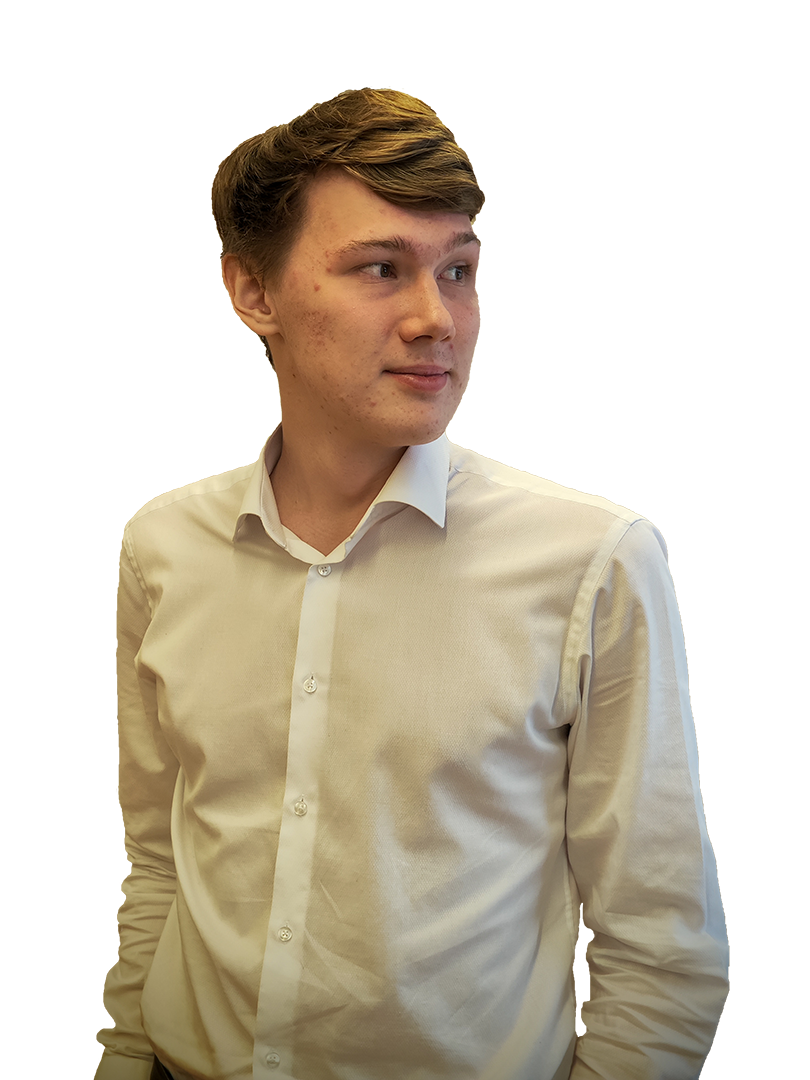
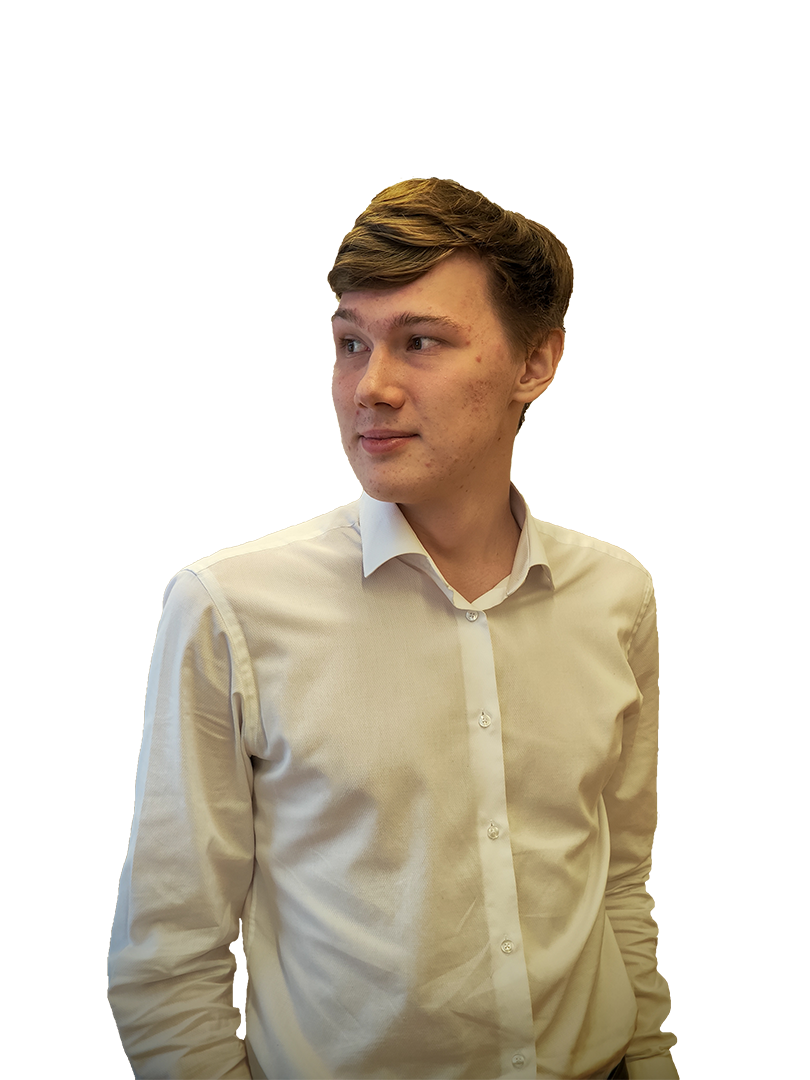
аа

diff --git a/dist/index.html b/dist/index.html
@@ -1,1 +1,146 @@
-<!DOCTYPE html><html lang=ru data-bs-theme=dark><head><meta charset=UTF-8><meta http-equiv=X-UA-Compatible content="IE=edge"><title>Portfolio</title><script defer=defer src=main.5e54792342d2b28afcd0.bundle.js></script><script defer=defer src=vendor.bf51432881bab9971f05.bundle.js></script><link href=vendor.f3c888c6f17d62f131b8.css rel=stylesheet></head><body class=""><header><nav class="navbar navbar-expand-lg bg-body-tertiary"><div class=container-fluid><a class=navbar-brand href=#>Navbar</a> <button class=navbar-toggler type=button data-bs-toggle=collapse data-bs-target=#navbarNavAltMarkup aria-controls=navbarNavAltMarkup aria-expanded=false aria-label="Toggle navigation"><span class=navbar-toggler-icon></span></button><div class="collapse navbar-collapse" id=navbarNavAltMarkup><div class="navbar-nav me-auto"><a class=nav-link aria-current=page href=#><span class=menu-bt>Home</span> </a><a class=nav-link href=#><span class=menu-bt>About me</span> </a><a class=nav-link href=#><span class=menu-bt>Portfolio</span> </a><a class=nav-link href=#><span class=menu-bt>Contact</span> </a><a href=# class="nav-link theme-button"><span class=menu-bt id=btnSwitch>Switch to Light Theme</span></a></div></div></div></nav></header><main><section><div class="container d-flex justify-content-between"><div class=align-item-center><h1>Я Сысолетин Александр</h1><p>web-designer</p><p>web-developer</p></div><img src=35b08dc6f8176e383f6d.png alt=""></div></section><section><div class=container><h1>About me</h1><div class="d-flex justify-content-between"><p>/*Content*/ /*разрабатываю и переделываю сайты, вестаю сайты с матеков, использую в работе различные плагины и библиотеки (jQuery, Bootstrap, webpack, Sass, gFonts, fontawesome и тд)*/</p><img src=# alt=""></div></div></section><section><div class=container><h1 class="m-5 text-center">Portfolio</h1><div class=""><div class="d-flex flex-wrap gap-3 justify-content-center"><div class=portfolio-items><a class="" href=https://p0m1dOr.github.io/Phototime><img class=scaling src=821287cec87b5e4ce74f.png alt=""></a></div><div class=portfolio-items><a class="" href=https://p0m1dor.github.io/zaverstayu/ ><img class=scaling src=e4115ee43b251eb53b94.png alt=""></a></div><div class=portfolio-items><a class="" href=https://p0m1dOr.github.io/Tajem><img class=scaling src=f7cb087e4ffaaae2178b.png alt=""></a></div><div class=portfolio-items><a class="" href=https://p0m1dOr.github.io/ActiveBox><img class=scaling src=5e95600352833d30dbb5.png alt=""></a></div></div></div></div></section><section class=bg-bs-dark><div class=container><h1 class="fs-2 text-center p-5">Contacts</h1><ul class="d-flex justify-content-center list-unstyled m-0 p-5"><li class="m-3 mb-0 mt-0"><a class="d-block border border-white border-1 contact-items rounded-circle position-relative content-image-1" href=#><svg xmlns=http://www.w3.org/2000/svg xmlns:xlink=http://www.w3.org/1999/xlink viewBox=0,0,256,256 width=35px height=35px fill-rule=nonzero class="contact-img position-absolute"><g transform=""><g class=social-images fill=#ffffff fill-rule=nonzero stroke=none stroke-width=1 stroke-linecap=butt stroke-linejoin=miter stroke-miterlimit=10 stroke-dasharray="" stroke-dashoffset=0 font-family=none font-weight=none font-size=none text-anchor=none style=mix-blend-mode:normal><g transform=scale(10.66667,10.66667)><path d="M20.30273,2.98438c-0.28897,0.01257 -0.55415,0.09568 -0.78711,0.1875c-0.21522,0.08476 -0.98809,0.4096 -2.21875,0.92578c-1.23066,0.51618 -2.8614,1.20058 -4.59961,1.93164c-3.47642,1.46212 -7.38303,3.10683 -9.38477,3.94922c-0.06874,0.02864 -0.34791,0.11411 -0.65625,0.34961c-0.30905,0.23605 -0.65234,0.74834 -0.65234,1.30859c0,0.45195 0.22561,0.91225 0.49805,1.17578c0.27243,0.26353 0.54854,0.38674 0.7793,0.47852v-0.00195c0.78003,0.31076 3.10944,1.24288 3.66406,1.46484c0.19673,0.58953 1.04128,3.11337 1.24219,3.74805h-0.00195c0.14201,0.44921 0.28043,0.74196 0.47266,0.98633c0.09611,0.12218 0.21084,0.2329 0.35156,0.32031c0.05399,0.03354 0.11378,0.05955 0.17383,0.08398c0.00837,0.00355 0.01699,0.00443 0.02539,0.00781l-0.02344,-0.00586c0.01741,0.007 0.03304,0.01733 0.05078,0.02344c0.02891,0.00996 0.04896,0.00963 0.08789,0.01758c0.137,0.04215 0.27376,0.07031 0.40039,0.07031c0.54361,0 0.87695,-0.29492 0.87695,-0.29492l0.02149,-0.01563l2.34766,-1.98633l2.875,2.66016c0.05251,0.07415 0.4639,0.63086 1.41602,0.63086c0.56813,0 1.01731,-0.28121 1.30469,-0.57617c0.28738,-0.29496 0.4664,-0.59677 0.54688,-1.00586l0.00195,-0.00195c0.06418,-0.33018 2.81641,-14.15039 2.81641,-14.15039l-0.00586,0.02344c0.08566,-0.38235 0.11095,-0.7521 0.00977,-1.12891c-0.10119,-0.37681 -0.37428,-0.74453 -0.70312,-0.9375c-0.32885,-0.19297 -0.64072,-0.25085 -0.92969,-0.23828zM19.9082,5.17383c-0.10876,0.54603 -2.57419,12.93205 -2.72656,13.70898l-4.15234,-3.8418l-2.80664,2.37305l0.77734,-3.03906c0,0 5.36255,-5.42814 5.68555,-5.74414c0.26,-0.253 0.31445,-0.34169 0.31445,-0.42969c0,-0.117 -0.06022,-0.20117 -0.19922,-0.20117c-0.125,0 -0.29477,0.11978 -0.38477,0.17578c-1.14365,0.713 -6.01473,3.4889 -8.41016,4.85156c-0.14416,-0.0578 -2.30846,-0.92689 -3.47461,-1.39258c2.07426,-0.873 5.62991,-2.36896 8.94141,-3.76172c1.73791,-0.73094 3.36817,-1.41595 4.59766,-1.93164c1.03785,-0.43531 1.57923,-0.6607 1.83789,-0.76758zM17.15234,19.02539h0.00195c-0.00005,0.00023 -0.00185,0.00556 -0.00195,0.00586c0.00127,-0.00646 -0.00095,-0.0008 0,-0.00586z"></path></g></g></g></svg></a></li><li class="m-2 mb-0 mt-0"><a class="d-block border border-white border-1 contact-items rounded-circle position-relative content-image-2" href=#><svg xmlns=http://www.w3.org/2000/svg xmlns:xlink=http://www.w3.org/1999/xlink viewBox=0,0,256,256 width=35px height=35px fill-rule=nonzero class="contact-img position-absolute"><g fill=#ffffff class=social-images fill-rule=nonzero stroke=none stroke-width=1 stroke-linecap=butt stroke-linejoin=miter stroke-miterlimit=10 stroke-dasharray="" stroke-dashoffset=0 font-family=none font-weight=none font-size=none text-anchor=none style=mix-blend-mode:normal><g transform=scale(5.33333,5.33333)><path d="M5.43555,10.95703c-2.24145,0 -3.94823,2.20405 -3.33008,4.37109c1.60947,5.64875 3.99535,11.18019 7.55664,15.5293c3.56129,4.3491 8.37781,7.50153 14.53711,8.12695c2.05018,0.20802 3.81836,-1.46324 3.81836,-3.49023v-4.04687c0,-0.25252 0.17246,-0.43196 0.36914,-0.4375c0.03642,-0.00087 0.06553,-0.00195 0.08398,-0.00195c0.70734,0 2.1608,0.88617 3.4375,2.26367c1.2767,1.3775 2.4059,3.08279 2.94922,4.02734v0.00195c0.61476,1.06689 1.76026,1.71094 2.97852,1.71094h4.87305c2.42697,0.0018 4.05099,-2.7398 2.86328,-4.86328c-1.86474,-3.33527 -5.58491,-6.63403 -7.44531,-8.2793c3.40858,-3.74313 5.66851,-7.82237 6.66992,-10.52734c0.75572,-2.04371 -0.8025,-4.34375 -3,-4.34375h-3.47852c-1.51206,0 -2.92183,0.73674 -3.49805,1.91601c-2.70723,5.54763 -5.12035,7.58519 -6.82031,9.05274v-7.52734c0,-1.87793 -1.55821,-3.42618 -3.42969,-3.42969l-6.0918,-0.00977c-1.93989,-0.0024 -3.14276,2.39349 -1.98047,3.94727l1.17578,1.57422l0.00195,0.00391c0.20152,0.26649 0.30859,0.58581 0.30859,0.91406v0.00195l0.02344,6.27734c-2.42295,-2.55532 -5.05531,-7.96819 -5.84961,-10.38281v-0.00195c-0.46389,-1.41049 -1.79845,-2.36286 -3.27148,-2.36719h-0.00195l-3.44727,-0.00977zM5.43555,13.95703l3.44336,0.00977c0.21165,0.0005 0.36731,0.11471 0.42969,0.30469c0.98629,2.99924 3.57766,8.71377 6.86328,11.91406c0.85321,0.83123 2.10548,0.99973 3.07617,0.60547c0.97069,-0.39426 1.76172,-1.41601 1.76172,-2.61523v-0.00195l-0.02539,-6.73437c0,-0.98078 -0.32107,-1.93461 -0.91016,-2.7168l-0.00195,-0.00391l-0.53711,-0.7168l5.0293,0.00781c0.26257,0.00051 0.43555,0.17161 0.43555,0.42969v7.60352c0,2.43475 3.06637,3.83367 4.91016,2.24219h0.00195c1.69007,-1.45988 4.68076,-4.06542 7.60352,-10.05469c0.06778,-0.13872 0.0088,-0.23242 0.80273,-0.23242h3.47852c0.2025,0 0.26183,0.09645 0.18555,0.30273c-0.85083,2.29824 -3.0216,6.30604 -6.24023,9.77344c-0.99206,1.06888 -0.95164,2.83494 0.16992,3.82813c1.75814,1.55509 5.59531,5.1232 7.04102,7.70898c0.13229,0.23651 0.03284,0.40059 -0.24219,0.40039h-4.875c-0.16775,0 -0.30566,-0.08187 -0.37891,-0.20898c-0.64968,-1.12945 -1.84111,-2.94482 -3.34766,-4.57031c-1.50655,-1.6255 -3.30001,-3.22461 -5.63867,-3.22461c-0.06626,0 -0.12052,0.00089 -0.16211,0.00195h-0.00391h-0.00195c-1.86132,0.05246 -3.28516,1.63202 -3.28516,3.4375v4.04688c0,0.311 -0.23981,0.53384 -0.51562,0.50586c-5.3237,-0.54058 -9.33632,-3.15557 -12.51953,-7.04297c-3.18321,-3.8874 -5.45666,-9.06192 -6.99219,-14.45117c-0.08585,-0.30096 0.09876,-0.54883 0.44531,-0.54883z"></path></g></g></svg></a></li><li class="m-2 mb-0 mt-0"><a class="d-block border border-white border-1 contact-items rounded-circle position-relative content-image-3" href=#><svg xmlns=http://www.w3.org/2000/svg xmlns:xlink=http://www.w3.org/1999/xlink viewBox=0,0,256,256 width=35px height=35px fill-rule=nonzero class="contact-img position-absolute"><g class=social-images fill=#ffffff fill-rule=nonzero stroke=none stroke-width=1 stroke-linecap=butt stroke-linejoin=miter stroke-miterlimit=10 stroke-dasharray="" stroke-dashoffset=0 font-family=none font-weight=none font-size=none text-anchor=none style=mix-blend-mode:normal><g transform=scale(10.66667,10.66667)><path d="M19.952,5.672c-1.904,-1.531 -4.916,-1.79 -5.044,-1.801c-0.201,-0.017 -0.392,0.097 -0.474,0.281c-0.006,0.012 -0.072,0.163 -0.145,0.398c1.259,0.212 2.806,0.64 4.206,1.509c0.224,0.139 0.293,0.434 0.154,0.659c-0.09,0.146 -0.247,0.226 -0.407,0.226c-0.086,0 -0.173,-0.023 -0.252,-0.072c-2.406,-1.492 -5.412,-1.567 -5.99,-1.567c-0.578,0 -3.585,0.075 -5.989,1.567c-0.225,0.14 -0.519,0.07 -0.659,-0.154c-0.14,-0.225 -0.07,-0.519 0.154,-0.659c1.4,-0.868 2.946,-1.297 4.206,-1.509c-0.074,-0.236 -0.14,-0.386 -0.145,-0.398c-0.083,-0.184 -0.273,-0.3 -0.475,-0.28c-0.127,0.01 -3.139,0.269 -5.069,1.822c-1.008,0.931 -3.023,6.379 -3.023,11.089c0,0.083 0.022,0.165 0.063,0.237c1.391,2.443 5.185,3.083 6.05,3.111c0.005,0 0.01,0 0.015,0c0.153,0 0.297,-0.073 0.387,-0.197l0.875,-1.202c-2.359,-0.61 -3.564,-1.645 -3.634,-1.706c-0.198,-0.175 -0.217,-0.477 -0.042,-0.675c0.175,-0.198 0.476,-0.217 0.674,-0.043c0.029,0.026 2.248,1.909 6.612,1.909c4.372,0 6.591,-1.891 6.613,-1.91c0.198,-0.172 0.5,-0.154 0.674,0.045c0.174,0.198 0.155,0.499 -0.042,0.673c-0.07,0.062 -1.275,1.096 -3.634,1.706l0.875,1.202c0.09,0.124 0.234,0.197 0.387,0.197c0.005,0 0.01,0 0.015,0c0.865,-0.027 4.659,-0.667 6.05,-3.111c0.04,-0.072 0.062,-0.153 0.062,-0.236c0,-4.71 -2.015,-10.158 -3.048,-11.111zM8.891,14.87c-0.924,0 -1.674,-0.857 -1.674,-1.913c0,-1.056 0.749,-1.913 1.674,-1.913c0.925,0 1.674,0.857 1.674,1.913c0,1.056 -0.749,1.913 -1.674,1.913zM15.109,14.87c-0.924,0 -1.674,-0.857 -1.674,-1.913c0,-1.056 0.749,-1.913 1.674,-1.913c0.924,0 1.674,0.857 1.674,1.913c0,1.056 -0.75,1.913 -1.674,1.913z"></path></g></g></svg></a></li><li class="m-2 mb-0 mt-0"><a class="d-block border border-white border-1 contact-items rounded-circle position-relative content-image-4" href=#><svg xmlns=http://www.w3.org/2000/svg xmlns:xlink=http://www.w3.org/1999/xlink viewBox=0,0,256,256 width=35px height=35px fill-rule=nonzero class="contact-img position-absolute"><g class=social-images fill=#ffffff fill-rule=nonzero stroke=none stroke-width=1 stroke-linecap=butt stroke-linejoin=miter stroke-miterlimit=10 stroke-dasharray="" stroke-dashoffset=0 font-family=none font-weight=none font-size=none text-anchor=none style=mix-blend-mode:normal><g transform=scale(10.66667,10.66667)><path d="M12,2c-5.52344,0 -10,4.47656 -10,10c0,5.52344 4.47656,10 10,10c5.52344,0 10,-4.47656 10,-10c0,-5.52344 -4.47656,-10 -10,-10zM12,4c4.41016,0 8,3.58984 8,8c0,0.46875 -0.04687,0.92969 -0.125,1.375c-0.24609,-0.05469 -0.60937,-0.12109 -1.03125,-0.125c-0.3125,-0.00391 -0.70312,0.04688 -1.03125,0.09375c0.11328,-0.34766 0.1875,-0.73047 0.1875,-1.125c0,-0.96094 -0.46875,-1.85547 -1.21875,-2.59375c0.20703,-0.76953 0.41016,-2.08984 -0.125,-2.625c-1.58203,0 -2.45703,1.12891 -2.5,1.1875c-0.48828,-0.11719 -0.99219,-0.1875 -1.53125,-0.1875c-0.69141,0 -1.35156,0.125 -1.96875,0.3125l0.1875,-0.15625c0,0 -0.87891,-1.21875 -2.5,-1.21875c-0.56641,0.57031 -0.30859,2.01563 -0.09375,2.75c-0.76562,0.73047 -1.25,1.59375 -1.25,2.53125c0,0.32813 0.07813,0.64063 0.15625,0.9375c-0.27734,-0.03125 -1.27734,-0.125 -1.6875,-0.125c-0.36328,0 -0.92578,0.08594 -1.375,0.1875c-0.0625,-0.39844 -0.09375,-0.80469 -0.09375,-1.21875c0,-4.41016 3.58984,-8 8,-8zM5.46875,13.28125c0.39453,0 1.59375,0.14063 1.75,0.15625c0.01953,0.05469 0.03906,0.10547 0.0625,0.15625c-0.42969,-0.03906 -1.26172,-0.09766 -1.8125,-0.03125c-0.36719,0.04297 -0.83594,0.17578 -1.25,0.28125c-0.03125,-0.125 -0.07031,-0.24609 -0.09375,-0.375c0.4375,-0.09375 1.01172,-0.1875 1.34375,-0.1875zM18.84375,13.5c0.39844,0.00391 0.76172,0.07031 1,0.125c-0.01172,0.06641 -0.04687,0.12109 -0.0625,0.1875c-0.25391,-0.05859 -0.67187,-0.14453 -1.15625,-0.15625c-0.23437,-0.00391 -0.60937,0.00781 -0.9375,0.03125c0.01563,-0.03125 0.01953,-0.0625 0.03125,-0.09375c0.33984,-0.04687 0.77344,-0.09766 1.125,-0.09375zM6.09375,13.78125c0.5625,0.00391 1.08984,0.04297 1.3125,0.0625c0.52344,0.97656 1.58203,1.69922 3.21875,2c-0.40234,0.22266 -0.76172,0.53516 -1.03125,0.90625c-0.23437,0.01953 -0.48047,0.03125 -0.71875,0.03125c-0.69531,0 -1.12891,-0.62109 -1.5,-1.15625c-0.375,-0.53516 -0.83594,-0.59375 -1.09375,-0.625c-0.26172,-0.03125 -0.35156,0.11719 -0.21875,0.21875c0.76172,0.58594 1.03516,1.28125 1.34375,1.90625c0.27734,0.5625 0.85938,0.875 1.5,0.875h0.125c-0.01953,0.10938 -0.03125,0.21094 -0.03125,0.3125v1.09375c-2.30859,-0.93359 -4.06641,-2.90625 -4.71875,-5.34375c0.41016,-0.10156 0.87109,-0.20703 1.21875,-0.25c0.16016,-0.01953 0.36328,-0.03516 0.59375,-0.03125zM18.625,13.90625c0.44922,0.01172 0.84766,0.09766 1.09375,0.15625c-0.55078,2.07031 -1.91016,3.79297 -3.71875,4.84375v-0.59375c0,-0.85156 -0.67187,-1.94531 -1.625,-2.46875c1.58203,-0.28906 2.61328,-0.98047 3.15625,-1.90625c0.37891,-0.02734 0.82422,-0.03906 1.09375,-0.03125zM12.5,18c0.27344,0 0.5,0.22656 0.5,0.5v1.4375c-0.32812,0.04297 -0.66016,0.0625 -1,0.0625v-1.5c0,-0.27344 0.22656,-0.5 0.5,-0.5zM10.5,19c0.27344,0 0.5,0.22656 0.5,0.5v0.4375c-0.33594,-0.04297 -0.67578,-0.10547 -1,-0.1875v-0.25c0,-0.27344 0.22656,-0.5 0.5,-0.5zM14.5,19c0.24219,0 0.45313,0.17578 0.5,0.40625c-0.32422,0.13281 -0.65625,0.25391 -1,0.34375v-0.25c0,-0.27344 0.22656,-0.5 0.5,-0.5z"></path></g></g></svg></a></li></ul></div></section></main><footer class="bg-dark-subtle d-flex justify-content-center"><p class=p-3>Copyright by P0m1dOr</p></footer></body></html>
+<!DOCTYPE html>
+<html lang=ru data-bs-theme=dark>
+
+<head>
+    <meta charset=UTF-8>
+    <meta http-equiv=X-UA-Compatible content="IE=edge">
+    <title>Portfolio</title>
+    <script defer=defer src=main.5e54792342d2b28afcd0.bundle.js></script>
+    <script defer=defer src=vendor.bf51432881bab9971f05.bundle.js></script>
+    <link href=vendor.f3c888c6f17d62f131b8.css rel=stylesheet>
+</head>
+
+<body class="">
+    <header>
+        <nav class="navbar navbar-expand-lg bg-body-tertiary">
+            <div class=container-fluid><a class=navbar-brand href=#>Navbar</a> <button class=navbar-toggler type=button
+                    data-bs-toggle=collapse data-bs-target=#navbarNavAltMarkup aria-controls=navbarNavAltMarkup
+                    aria-expanded=false aria-label="Toggle navigation"><span class=navbar-toggler-icon></span></button>
+                <div class="collapse navbar-collapse" id=navbarNavAltMarkup>
+                    <div class="navbar-nav me-auto"><a class=nav-link aria-current=page href=#><span
+                                class=menu-bt>Home</span> </a><a class=nav-link href=#><span class=menu-bt>About
+                                me</span> </a><a class=nav-link href=#><span class=menu-bt>Portfolio</span> </a><a
+                            class=nav-link href=#><span class=menu-bt>Contact</span> </a><a href=#
+                            class="nav-link theme-button"><span class=menu-bt id=btnSwitch>Switch to Light
+                                Theme</span></a></div>
+                </div>
+            </div>
+        </nav>
+    </header>
+    <main>
+        <section>
+            <div class="container d-flex justify-content-between">
+                <div class=align-item-center>
+                    <h1>Я Сысолетин Александр</h1>
+                    <p>web-designer</p>
+                    <p>web-developer</p>
+                </div><img src=35b08dc6f8176e383f6d.png alt="">
+            </div>
+        </section>
+        <section>
+            <div class=container>
+                <h1>About me</h1>
+                <div class="d-flex justify-content-between">
+                    <p>/*Content*/ /*разрабатываю и переделываю сайты, вестаю сайты с матеков, использую в работе
+                        различные плагины и библиотеки (jQuery, Bootstrap, webpack, Sass, gFonts, fontawesome и тд)*/
+                    </p><img src=# alt="">
+                </div>
+            </div>
+        </section>
+        <section>
+            <div class=container>
+                <h1 class="m-5 text-center">Portfolio</h1>
+                <div class="">
+                    <div class="d-flex flex-wrap gap-3 justify-content-center">
+                        <div class=portfolio-items><a class="" href=https://p0m1dOr.github.io/Phototime><img
+                                    class=scaling src=821287cec87b5e4ce74f.png alt=""></a></div>
+                        <div class=portfolio-items><a class="" href=https://p0m1dor.github.io/zaverstayu/><img
+                                    class=scaling src=e4115ee43b251eb53b94.png alt=""></a></div>
+                        <div class=portfolio-items><a class="" href=https://p0m1dOr.github.io/Tajem><img class=scaling
+                                    src=f7cb087e4ffaaae2178b.png alt=""></a></div>
+                        <div class=portfolio-items><a class="" href=https://p0m1dOr.github.io/ActiveBox><img
+                                    class=scaling src=5e95600352833d30dbb5.png alt=""></a></div>
+                    </div>
+                </div>
+            </div>
+        </section>
+        <section class=bg-bs-dark>
+            <div class=container>
+                <h1 class="fs-2 text-center p-5">Contacts</h1>
+                <ul class="d-flex justify-content-center list-unstyled m-0 p-5">
+                    <li class="m-3 mb-0 mt-0"><a
+                            class="d-block border border-white border-1 contact-items rounded-circle position-relative content-image-1"
+                            href=#><svg xmlns=http://www.w3.org/2000/svg xmlns:xlink=http://www.w3.org/1999/xlink
+                                viewBox=0,0,256,256 width=35px height=35px fill-rule=nonzero
+                                class="contact-img position-absolute">
+                                <g transform="">
+                                    <g class=social-images fill=#ffffff fill-rule=nonzero stroke=none stroke-width=1
+                                        stroke-linecap=butt stroke-linejoin=miter stroke-miterlimit=10
+                                        stroke-dasharray="" stroke-dashoffset=0 font-family=none font-weight=none
+                                        font-size=none text-anchor=none style=mix-blend-mode:normal>
+                                        <g transform=scale(10.66667,10.66667)>
+                                            <path
+                                                d="M20.30273,2.98438c-0.28897,0.01257 -0.55415,0.09568 -0.78711,0.1875c-0.21522,0.08476 -0.98809,0.4096 -2.21875,0.92578c-1.23066,0.51618 -2.8614,1.20058 -4.59961,1.93164c-3.47642,1.46212 -7.38303,3.10683 -9.38477,3.94922c-0.06874,0.02864 -0.34791,0.11411 -0.65625,0.34961c-0.30905,0.23605 -0.65234,0.74834 -0.65234,1.30859c0,0.45195 0.22561,0.91225 0.49805,1.17578c0.27243,0.26353 0.54854,0.38674 0.7793,0.47852v-0.00195c0.78003,0.31076 3.10944,1.24288 3.66406,1.46484c0.19673,0.58953 1.04128,3.11337 1.24219,3.74805h-0.00195c0.14201,0.44921 0.28043,0.74196 0.47266,0.98633c0.09611,0.12218 0.21084,0.2329 0.35156,0.32031c0.05399,0.03354 0.11378,0.05955 0.17383,0.08398c0.00837,0.00355 0.01699,0.00443 0.02539,0.00781l-0.02344,-0.00586c0.01741,0.007 0.03304,0.01733 0.05078,0.02344c0.02891,0.00996 0.04896,0.00963 0.08789,0.01758c0.137,0.04215 0.27376,0.07031 0.40039,0.07031c0.54361,0 0.87695,-0.29492 0.87695,-0.29492l0.02149,-0.01563l2.34766,-1.98633l2.875,2.66016c0.05251,0.07415 0.4639,0.63086 1.41602,0.63086c0.56813,0 1.01731,-0.28121 1.30469,-0.57617c0.28738,-0.29496 0.4664,-0.59677 0.54688,-1.00586l0.00195,-0.00195c0.06418,-0.33018 2.81641,-14.15039 2.81641,-14.15039l-0.00586,0.02344c0.08566,-0.38235 0.11095,-0.7521 0.00977,-1.12891c-0.10119,-0.37681 -0.37428,-0.74453 -0.70312,-0.9375c-0.32885,-0.19297 -0.64072,-0.25085 -0.92969,-0.23828zM19.9082,5.17383c-0.10876,0.54603 -2.57419,12.93205 -2.72656,13.70898l-4.15234,-3.8418l-2.80664,2.37305l0.77734,-3.03906c0,0 5.36255,-5.42814 5.68555,-5.74414c0.26,-0.253 0.31445,-0.34169 0.31445,-0.42969c0,-0.117 -0.06022,-0.20117 -0.19922,-0.20117c-0.125,0 -0.29477,0.11978 -0.38477,0.17578c-1.14365,0.713 -6.01473,3.4889 -8.41016,4.85156c-0.14416,-0.0578 -2.30846,-0.92689 -3.47461,-1.39258c2.07426,-0.873 5.62991,-2.36896 8.94141,-3.76172c1.73791,-0.73094 3.36817,-1.41595 4.59766,-1.93164c1.03785,-0.43531 1.57923,-0.6607 1.83789,-0.76758zM17.15234,19.02539h0.00195c-0.00005,0.00023 -0.00185,0.00556 -0.00195,0.00586c0.00127,-0.00646 -0.00095,-0.0008 0,-0.00586z">
+                                            </path>
+                                        </g>
+                                    </g>
+                                </g>
+                            </svg></a></li>
+                    <li class="m-2 mb-0 mt-0"><a
+                            class="d-block border border-white border-1 contact-items rounded-circle position-relative content-image-2"
+                            href=#><svg xmlns=http://www.w3.org/2000/svg xmlns:xlink=http://www.w3.org/1999/xlink
+                                viewBox=0,0,256,256 width=35px height=35px fill-rule=nonzero
+                                class="contact-img position-absolute">
+                                <g fill=#ffffff class=social-images fill-rule=nonzero stroke=none stroke-width=1
+                                    stroke-linecap=butt stroke-linejoin=miter stroke-miterlimit=10 stroke-dasharray=""
+                                    stroke-dashoffset=0 font-family=none font-weight=none font-size=none
+                                    text-anchor=none style=mix-blend-mode:normal>
+                                    <g transform=scale(5.33333,5.33333)>
+                                        <path
+                                            d="M5.43555,10.95703c-2.24145,0 -3.94823,2.20405 -3.33008,4.37109c1.60947,5.64875 3.99535,11.18019 7.55664,15.5293c3.56129,4.3491 8.37781,7.50153 14.53711,8.12695c2.05018,0.20802 3.81836,-1.46324 3.81836,-3.49023v-4.04687c0,-0.25252 0.17246,-0.43196 0.36914,-0.4375c0.03642,-0.00087 0.06553,-0.00195 0.08398,-0.00195c0.70734,0 2.1608,0.88617 3.4375,2.26367c1.2767,1.3775 2.4059,3.08279 2.94922,4.02734v0.00195c0.61476,1.06689 1.76026,1.71094 2.97852,1.71094h4.87305c2.42697,0.0018 4.05099,-2.7398 2.86328,-4.86328c-1.86474,-3.33527 -5.58491,-6.63403 -7.44531,-8.2793c3.40858,-3.74313 5.66851,-7.82237 6.66992,-10.52734c0.75572,-2.04371 -0.8025,-4.34375 -3,-4.34375h-3.47852c-1.51206,0 -2.92183,0.73674 -3.49805,1.91601c-2.70723,5.54763 -5.12035,7.58519 -6.82031,9.05274v-7.52734c0,-1.87793 -1.55821,-3.42618 -3.42969,-3.42969l-6.0918,-0.00977c-1.93989,-0.0024 -3.14276,2.39349 -1.98047,3.94727l1.17578,1.57422l0.00195,0.00391c0.20152,0.26649 0.30859,0.58581 0.30859,0.91406v0.00195l0.02344,6.27734c-2.42295,-2.55532 -5.05531,-7.96819 -5.84961,-10.38281v-0.00195c-0.46389,-1.41049 -1.79845,-2.36286 -3.27148,-2.36719h-0.00195l-3.44727,-0.00977zM5.43555,13.95703l3.44336,0.00977c0.21165,0.0005 0.36731,0.11471 0.42969,0.30469c0.98629,2.99924 3.57766,8.71377 6.86328,11.91406c0.85321,0.83123 2.10548,0.99973 3.07617,0.60547c0.97069,-0.39426 1.76172,-1.41601 1.76172,-2.61523v-0.00195l-0.02539,-6.73437c0,-0.98078 -0.32107,-1.93461 -0.91016,-2.7168l-0.00195,-0.00391l-0.53711,-0.7168l5.0293,0.00781c0.26257,0.00051 0.43555,0.17161 0.43555,0.42969v7.60352c0,2.43475 3.06637,3.83367 4.91016,2.24219h0.00195c1.69007,-1.45988 4.68076,-4.06542 7.60352,-10.05469c0.06778,-0.13872 0.0088,-0.23242 0.80273,-0.23242h3.47852c0.2025,0 0.26183,0.09645 0.18555,0.30273c-0.85083,2.29824 -3.0216,6.30604 -6.24023,9.77344c-0.99206,1.06888 -0.95164,2.83494 0.16992,3.82813c1.75814,1.55509 5.59531,5.1232 7.04102,7.70898c0.13229,0.23651 0.03284,0.40059 -0.24219,0.40039h-4.875c-0.16775,0 -0.30566,-0.08187 -0.37891,-0.20898c-0.64968,-1.12945 -1.84111,-2.94482 -3.34766,-4.57031c-1.50655,-1.6255 -3.30001,-3.22461 -5.63867,-3.22461c-0.06626,0 -0.12052,0.00089 -0.16211,0.00195h-0.00391h-0.00195c-1.86132,0.05246 -3.28516,1.63202 -3.28516,3.4375v4.04688c0,0.311 -0.23981,0.53384 -0.51562,0.50586c-5.3237,-0.54058 -9.33632,-3.15557 -12.51953,-7.04297c-3.18321,-3.8874 -5.45666,-9.06192 -6.99219,-14.45117c-0.08585,-0.30096 0.09876,-0.54883 0.44531,-0.54883z">
+                                        </path>
+                                    </g>
+                                </g>
+                            </svg></a></li>
+                    <li class="m-2 mb-0 mt-0"><a
+                            class="d-block border border-white border-1 contact-items rounded-circle position-relative content-image-3"
+                            href=#><svg xmlns=http://www.w3.org/2000/svg xmlns:xlink=http://www.w3.org/1999/xlink
+                                viewBox=0,0,256,256 width=35px height=35px fill-rule=nonzero
+                                class="contact-img position-absolute">
+                                <g class=social-images fill=#ffffff fill-rule=nonzero stroke=none stroke-width=1
+                                    stroke-linecap=butt stroke-linejoin=miter stroke-miterlimit=10 stroke-dasharray=""
+                                    stroke-dashoffset=0 font-family=none font-weight=none font-size=none
+                                    text-anchor=none style=mix-blend-mode:normal>
+                                    <g transform=scale(10.66667,10.66667)>
+                                        <path
+                                            d="M19.952,5.672c-1.904,-1.531 -4.916,-1.79 -5.044,-1.801c-0.201,-0.017 -0.392,0.097 -0.474,0.281c-0.006,0.012 -0.072,0.163 -0.145,0.398c1.259,0.212 2.806,0.64 4.206,1.509c0.224,0.139 0.293,0.434 0.154,0.659c-0.09,0.146 -0.247,0.226 -0.407,0.226c-0.086,0 -0.173,-0.023 -0.252,-0.072c-2.406,-1.492 -5.412,-1.567 -5.99,-1.567c-0.578,0 -3.585,0.075 -5.989,1.567c-0.225,0.14 -0.519,0.07 -0.659,-0.154c-0.14,-0.225 -0.07,-0.519 0.154,-0.659c1.4,-0.868 2.946,-1.297 4.206,-1.509c-0.074,-0.236 -0.14,-0.386 -0.145,-0.398c-0.083,-0.184 -0.273,-0.3 -0.475,-0.28c-0.127,0.01 -3.139,0.269 -5.069,1.822c-1.008,0.931 -3.023,6.379 -3.023,11.089c0,0.083 0.022,0.165 0.063,0.237c1.391,2.443 5.185,3.083 6.05,3.111c0.005,0 0.01,0 0.015,0c0.153,0 0.297,-0.073 0.387,-0.197l0.875,-1.202c-2.359,-0.61 -3.564,-1.645 -3.634,-1.706c-0.198,-0.175 -0.217,-0.477 -0.042,-0.675c0.175,-0.198 0.476,-0.217 0.674,-0.043c0.029,0.026 2.248,1.909 6.612,1.909c4.372,0 6.591,-1.891 6.613,-1.91c0.198,-0.172 0.5,-0.154 0.674,0.045c0.174,0.198 0.155,0.499 -0.042,0.673c-0.07,0.062 -1.275,1.096 -3.634,1.706l0.875,1.202c0.09,0.124 0.234,0.197 0.387,0.197c0.005,0 0.01,0 0.015,0c0.865,-0.027 4.659,-0.667 6.05,-3.111c0.04,-0.072 0.062,-0.153 0.062,-0.236c0,-4.71 -2.015,-10.158 -3.048,-11.111zM8.891,14.87c-0.924,0 -1.674,-0.857 -1.674,-1.913c0,-1.056 0.749,-1.913 1.674,-1.913c0.925,0 1.674,0.857 1.674,1.913c0,1.056 -0.749,1.913 -1.674,1.913zM15.109,14.87c-0.924,0 -1.674,-0.857 -1.674,-1.913c0,-1.056 0.749,-1.913 1.674,-1.913c0.924,0 1.674,0.857 1.674,1.913c0,1.056 -0.75,1.913 -1.674,1.913z">
+                                        </path>
+                                    </g>
+                                </g>
+                            </svg></a></li>
+                    <li class="m-2 mb-0 mt-0"><a
+                            class="d-block border border-white border-1 contact-items rounded-circle position-relative content-image-4"
+                            href=#><svg xmlns=http://www.w3.org/2000/svg xmlns:xlink=http://www.w3.org/1999/xlink
+                                viewBox=0,0,256,256 width=35px height=35px fill-rule=nonzero
+                                class="contact-img position-absolute">
+                                <g class=social-images fill=#ffffff fill-rule=nonzero stroke=none stroke-width=1
+                                    stroke-linecap=butt stroke-linejoin=miter stroke-miterlimit=10 stroke-dasharray=""
+                                    stroke-dashoffset=0 font-family=none font-weight=none font-size=none
+                                    text-anchor=none style=mix-blend-mode:normal>
+                                    <g transform=scale(10.66667,10.66667)>
+                                        <path
+                                            d="M12,2c-5.52344,0 -10,4.47656 -10,10c0,5.52344 4.47656,10 10,10c5.52344,0 10,-4.47656 10,-10c0,-5.52344 -4.47656,-10 -10,-10zM12,4c4.41016,0 8,3.58984 8,8c0,0.46875 -0.04687,0.92969 -0.125,1.375c-0.24609,-0.05469 -0.60937,-0.12109 -1.03125,-0.125c-0.3125,-0.00391 -0.70312,0.04688 -1.03125,0.09375c0.11328,-0.34766 0.1875,-0.73047 0.1875,-1.125c0,-0.96094 -0.46875,-1.85547 -1.21875,-2.59375c0.20703,-0.76953 0.41016,-2.08984 -0.125,-2.625c-1.58203,0 -2.45703,1.12891 -2.5,1.1875c-0.48828,-0.11719 -0.99219,-0.1875 -1.53125,-0.1875c-0.69141,0 -1.35156,0.125 -1.96875,0.3125l0.1875,-0.15625c0,0 -0.87891,-1.21875 -2.5,-1.21875c-0.56641,0.57031 -0.30859,2.01563 -0.09375,2.75c-0.76562,0.73047 -1.25,1.59375 -1.25,2.53125c0,0.32813 0.07813,0.64063 0.15625,0.9375c-0.27734,-0.03125 -1.27734,-0.125 -1.6875,-0.125c-0.36328,0 -0.92578,0.08594 -1.375,0.1875c-0.0625,-0.39844 -0.09375,-0.80469 -0.09375,-1.21875c0,-4.41016 3.58984,-8 8,-8zM5.46875,13.28125c0.39453,0 1.59375,0.14063 1.75,0.15625c0.01953,0.05469 0.03906,0.10547 0.0625,0.15625c-0.42969,-0.03906 -1.26172,-0.09766 -1.8125,-0.03125c-0.36719,0.04297 -0.83594,0.17578 -1.25,0.28125c-0.03125,-0.125 -0.07031,-0.24609 -0.09375,-0.375c0.4375,-0.09375 1.01172,-0.1875 1.34375,-0.1875zM18.84375,13.5c0.39844,0.00391 0.76172,0.07031 1,0.125c-0.01172,0.06641 -0.04687,0.12109 -0.0625,0.1875c-0.25391,-0.05859 -0.67187,-0.14453 -1.15625,-0.15625c-0.23437,-0.00391 -0.60937,0.00781 -0.9375,0.03125c0.01563,-0.03125 0.01953,-0.0625 0.03125,-0.09375c0.33984,-0.04687 0.77344,-0.09766 1.125,-0.09375zM6.09375,13.78125c0.5625,0.00391 1.08984,0.04297 1.3125,0.0625c0.52344,0.97656 1.58203,1.69922 3.21875,2c-0.40234,0.22266 -0.76172,0.53516 -1.03125,0.90625c-0.23437,0.01953 -0.48047,0.03125 -0.71875,0.03125c-0.69531,0 -1.12891,-0.62109 -1.5,-1.15625c-0.375,-0.53516 -0.83594,-0.59375 -1.09375,-0.625c-0.26172,-0.03125 -0.35156,0.11719 -0.21875,0.21875c0.76172,0.58594 1.03516,1.28125 1.34375,1.90625c0.27734,0.5625 0.85938,0.875 1.5,0.875h0.125c-0.01953,0.10938 -0.03125,0.21094 -0.03125,0.3125v1.09375c-2.30859,-0.93359 -4.06641,-2.90625 -4.71875,-5.34375c0.41016,-0.10156 0.87109,-0.20703 1.21875,-0.25c0.16016,-0.01953 0.36328,-0.03516 0.59375,-0.03125zM18.625,13.90625c0.44922,0.01172 0.84766,0.09766 1.09375,0.15625c-0.55078,2.07031 -1.91016,3.79297 -3.71875,4.84375v-0.59375c0,-0.85156 -0.67187,-1.94531 -1.625,-2.46875c1.58203,-0.28906 2.61328,-0.98047 3.15625,-1.90625c0.37891,-0.02734 0.82422,-0.03906 1.09375,-0.03125zM12.5,18c0.27344,0 0.5,0.22656 0.5,0.5v1.4375c-0.32812,0.04297 -0.66016,0.0625 -1,0.0625v-1.5c0,-0.27344 0.22656,-0.5 0.5,-0.5zM10.5,19c0.27344,0 0.5,0.22656 0.5,0.5v0.4375c-0.33594,-0.04297 -0.67578,-0.10547 -1,-0.1875v-0.25c0,-0.27344 0.22656,-0.5 0.5,-0.5zM14.5,19c0.24219,0 0.45313,0.17578 0.5,0.40625c-0.32422,0.13281 -0.65625,0.25391 -1,0.34375v-0.25c0,-0.27344 0.22656,-0.5 0.5,-0.5z">
+                                        </path>
+                                    </g>
+                                </g>
+                            </svg></a></li>
+                </ul>
+            </div>
+        </section>
+    </main>
+    <footer class="bg-dark-subtle d-flex justify-content-center">
+        <p class=p-3>Copyright by P0m1dOr</p>
+    </footer>
+</body>
+
+</html>

diff --git a/src/template.html b/src/template.html
@@ -1,5 +1,5 @@
 <!DOCTYPE html>
-<html lang="ru" data-bs-theme="dark">
+<html lang="ru" data-bs-theme="Light">
 
 <head>
     <meta charset="UTF-8">
@@ -8,17 +8,19 @@
 </head>
 
 <body class="">
-    <header>
+    <header class="position-fixed header">
         <nav class="navbar navbar-expand-lg bg-body-tertiary">
-            <div class="container-fluid">
-                <a class="navbar-brand" href="#">Navbar</a>
-                <button class="navbar-toggler" type="button" data-bs-toggle="collapse"
-                    data-bs-target="#navbarNavAltMarkup" aria-controls="navbarNavAltMarkup" aria-expanded="false"
-                    aria-label="Toggle navigation">
-                    <span class="navbar-toggler-icon"></span>
-                </button>
-                <div class="collapse navbar-collapse" id="navbarNavAltMarkup">
-                    <div class="navbar-nav me-auto">
+            <div class="container-fluid d-flex justify-content-between ">
+                <div>
+                    <a class="navbar-brand" href="#">Navbar</a>
+                    <button class="navbar-toggler" type="button" data-bs-toggle="collapse"
+                        data-bs-target="#navbarNavAltMarkup" aria-controls="navbarNavAltMarkup" aria-expanded="false"
+                        aria-label="Toggle navigation">
+                        <span class="navbar-toggler-icon"></span>
+                    </button>
+                </div>
+                <div class="collapse navbar-collapse nav-flex" id="navbarNavAltMarkup">
+                    <div class="navbar-nav">
                         <a class=" nav-link" aria-current="page" href="#"><span class="menu-bt">Home</span> </a>
                         <a class=" nav-link" href="#"><span class="menu-bt">About me</span> </a>
                         <a class=" nav-link" href="#"><span class="menu-bt">Portfolio</span> </a>
@@ -30,14 +32,14 @@
         </nav>
     </header>
     <main>
-        <section>
+        <section class="home-page">
             <div class="container d-flex justify-content-between">
-                <div class="align-item-center">
+                <div class="justify-content-center d-flex flex-column">
                     <h1>Я Сысолетин Александр</h1>
                     <p>web-designer</p>
                     <p>web-developer</p>
                 </div>
-                <img src="./img/home-img.png" alt="">
+                <img src="./img/home-page(1).png" alt="" width="500" >
             </div>
         </section>
         <section>

diff --git a/src/main.scss b/src/main.scss
@@ -30,6 +30,30 @@ h1 {
     }
 }
 
+/*Navigation*/
+
+.header {
+    width: 100%;
+}
+
+.nav-flex {
+    width: 200px;
+    margin-left: auto;
+}
+
+
+/*Home Page*/
+
+.home-page {
+    height: 1000px;
+    padding-top: auto;
+    padding-bottom: auto;
+
+}
+
+
+
+
 /* Portfolio */
 
 .scaling{
@@ -38,6 +62,7 @@ h1 {
     transition:.3s transform linear;
     &:hover {
         transform: translateX(5px) translateY(5px);
+        z-index: -4;
     };
     
 }
